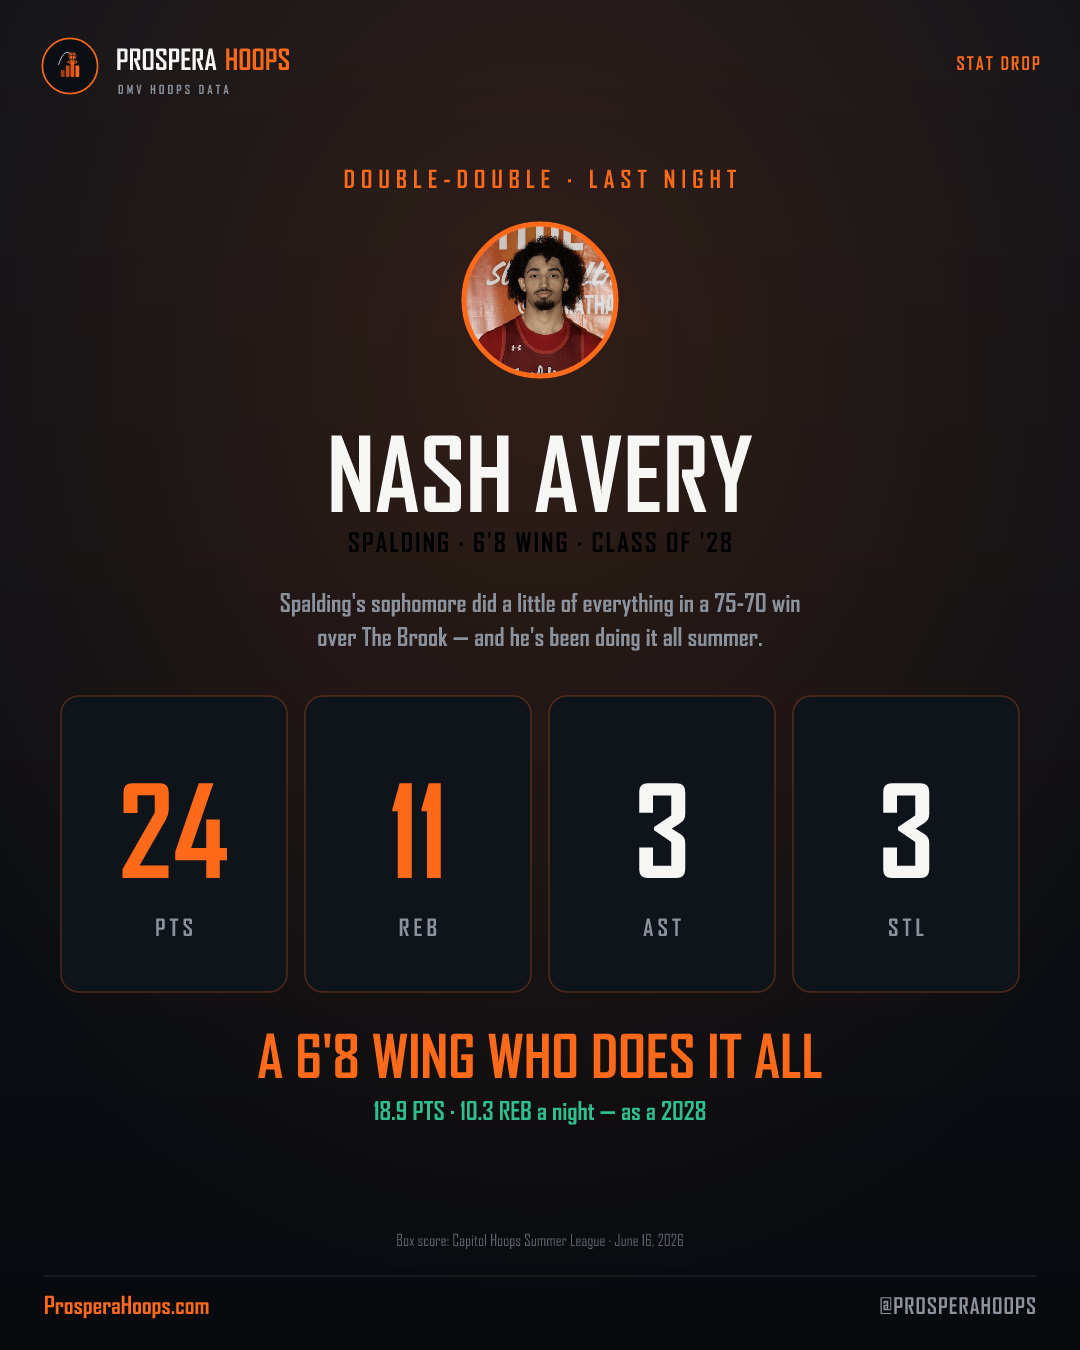
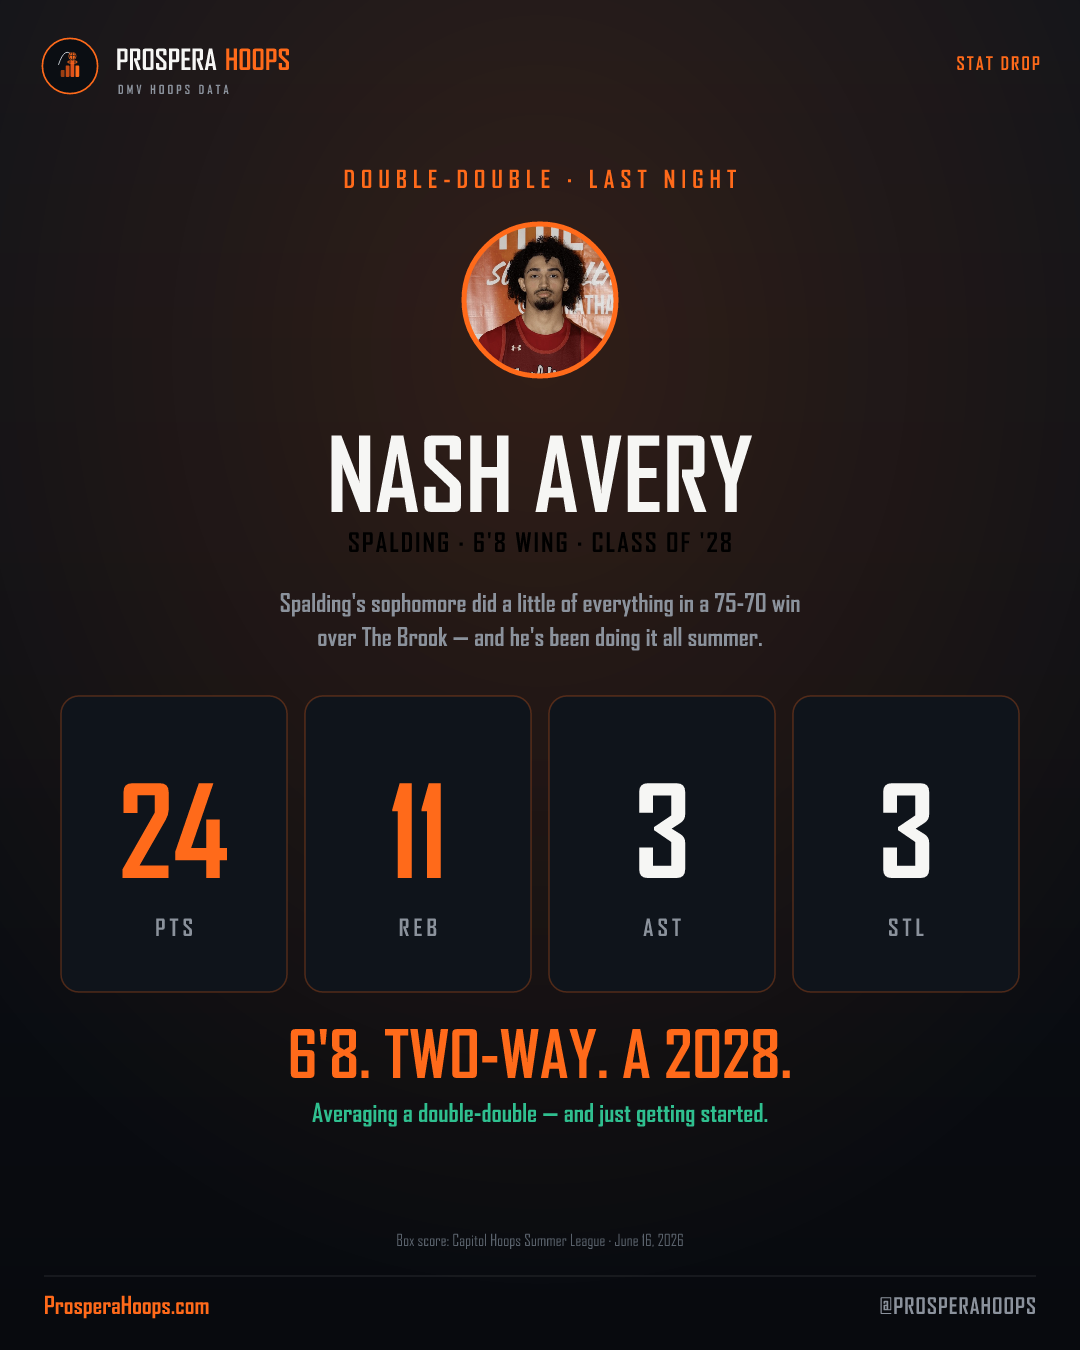
content: Nash tagline '6'8. Two-way. A 2028.' + single shareable caption file (story + carousel + extras)

Changed region(s): [[0.2444, 0.7467, 0.7639, 0.84]]

diff --git a/content/2026-06-17-launch-eve.md b/content/2026-06-17-launch-eve.md
@@ -1,59 +1,87 @@
-# Prospera Hoops — Content for Tue 6/17 (Launch Eve)
+# Prospera Hoops — Launch-Eve Content (Tue 6/17)
 
-**Launch is TOMORROW (6/18).** Today is the final hype day. 4 posts, staggered.
+Campaign: **SEEN · TRACKED · HOME**. Yesterday = the **SEEN.** story. Today = **TRACKED.** + a 3-slide
+showcase. Tomorrow (6/18) = **HOME.** story + launch.
 
-**Credit:** All box scores are from **Capitol Hoops Summer League** — credited on every graphic
-and in the captions. We wrote none of the recaps/box scores; they're theirs.
-
-**Nash Avery's double-double was last night (June 16)** — so it's genuinely fresh. Capitol Hoops posted the box score.
-
-## Graphics (1080×1350, same format/font as yesterday's Hayfield card)
-`docs/social-posts/` — regenerate with `node scripts/gen-launch-eve.mjs`:
-- `post-nash-statline.png` — Nash Avery double-double (last night)
-- `post-major-leap.png` — THE LEAP · Major Jones year-over-year
-- `post-leaders.png` — DMV Summer Scoring Leaders (top 5)
-
-## Posting order & timing
-1. ~11 AM — **Nash Avery · last night's double-double**
-2. ~2 PM — **Major Jones · THE LEAP**
-3. ~5 PM — **DMV Summer Scoring Leaders**
-4. ~8 PM — **Launch countdown** ("Tomorrow")
+All graphics are in `docs/social-posts/` (1080×1350 feed posts, 1080×1920 story).
+Box scores credited to **Capitol Hoops Summer League** on every stat card.
 
 ---
 
-### ① Nash Avery — last night 🌙
-> 🌙 LAST NIGHT — Nash Avery (Spalding, '28) stuffed the sheet in a 75-70 win over The Brook: **24 PTS · 11 REB · 3 AST · 3 STL** on 11-of-20. He's now **averaging a double-double — 18.9 & 10.3 — as a sophomore**. The DMV's been on notice.
->
-> 📲 Full game log + Scout Card on Prospera Hoops — live tomorrow.
-> Box score: Capitol Hoops Summer League.
+## ▶ POST TODAY
 
-`#ProsperaHoops #DMVHoops #Spalding #CapitolHoops #DMVBasketball`
+### 1) Story (post to your IG/X story)
+**File:** `story-tracked-1day.png`
+**Text/caption:**
+> TRACKED. Every game, over time. 👀 1 day out — 6.18.
 
-### ② Major Jones — THE LEAP 📈
-> 📈 THE LEAP — Major Jones (DeMatha) made a real Year-2 jump. PTS 8.4→**11.8** (+3.4) · REB 1.6→**3.0** (+1.4) · AST 1.0→**3.5** (+2.5). The assist jump is the tell — he's running the show now. Development, tracked over time.
+### 2) Feed carousel — 3 slides, in this order
+**Files:** `post-nash-statline.png` → `post-major-leap.png` → `post-showcase-home.png`
+**Caption (one caption for the whole carousel):**
+> This is Prospera Hoops. 🏀
 >
-> 📲 Every player's growth arc on Prospera Hoops — live tomorrow.
+> We SEE every game — Nash Avery (Spalding, '28) went for 24-11-3-3 last night.
+> We TRACK every player's growth — Major Jones' Year-2 leap (8.4→11.8 PPG, assists up 3.5×).
+> And we put the whole DMV in one HOME — 800+ players, every summer + HS team.
+>
+> Real stats. Real development. No fake rankings. You're already on the board — claim your profile free at launch.
+>
+> 📲 prosperahoops.com · LIVE 6.18
+>
 > Box scores: Capitol Hoops Summer League.
+
+`#ProsperaHoops #DMVHoops #DMVBasketball #CapitolHoops #SummerLeague`
+
+---
+
+## ▶ INDIVIDUAL CAPTIONS (if you post the cards separately)
+
+### Nash Avery — `post-nash-statline.png` (SEEN)
+> 🌙 LAST NIGHT — Nash Avery (Spalding, '28) filled the sheet in a 75-70 win over The Brook: **24 PTS · 11 REB · 3 AST · 3 STL** on 11-of-20. A 6'8 two-way wing averaging a double-double (18.9 / 10.3) as a sophomore — and just getting started.
+>
+> 📲 Full game log on Prospera Hoops — live tomorrow. Box score: Capitol Hoops Summer League.
+
+`#ProsperaHoops #DMVHoops #Spalding #CapitolHoops`
+
+### Major Jones — `post-major-leap.png` (TRACKED)
+> 📈 THE LEAP — Major Jones (DeMatha) made a real Year-2 jump: PTS 8.4→**11.8** · REB 1.6→**3.0** · AST 1.0→**3.5**. Scoring up, boards nearly doubled, assists up 3.5×. That's not a hot streak — that's development, tracked over time.
+>
+> 📲 Every player's growth arc on Prospera Hoops — live tomorrow. Box scores: Capitol Hoops Summer League.
 
 `#ProsperaHoops #TheLeap #DMVHoops #DeMatha #PlayerDevelopment`
 
-### ③ DMV Summer Scoring Leaders 🏀
-> 🏀 DMV SUMMER SCORING LEADERS — Drew Hill 28.8 (St. John's) · Will Braun-Duin 28.6 (John Handley) · Jeremiah Williams 28.3 (Walter Johnson) · Gabe Colston 28.0 (JFK) · Jordan Fox 27.9 (DOZA).
+### Home / Showcase — `post-showcase-home.png` (HOME)
+> SEEN. TRACKED. HOME. 🏀 Every DMV hooper, every team, in one place — 800+ players, 61 summer teams, 306 HS teams. Real stats, tracked over time. No fake rankings. Claim your profile free at launch.
 >
-> Real box scores. No fake rankings. No hype. Full board — live tomorrow.
-> Box scores: Capitol Hoops Summer League.
-
-`#ProsperaHoops #DMVHoops #CapitolHoops #SummerLeague`
-*(Min. 5 GP — keeps the board credible.)*
-
-### ④ Launch Countdown ⏳
-> ⏳ TOMORROW. Every DMV hooper. Every team. Real stats, tracked over time. On the board. You're already on it — claim your profile free at launch.
->
-> prosperahoops.com · 6.18
+> prosperahoops.com · LIVE 6.18
 
 `#ProsperaHoops #DMVHoops #DMVBasketball`
 
 ---
+
+## ▶ EXTRAS (use anytime)
+
+### Scoring Leaders — `post-leaders.png`
+> 🏀 DMV SUMMER SCORING LEADERS — Drew Hill 28.8 (St. John's) · Will Braun-Duin 28.6 (John Handley) · Jeremiah Williams 28.3 (Walter Johnson) · Gabe Colston 28.0 (JFK) · Jordan Fox 27.9 (DOZA). Real box scores. No fake rankings. Min. 5 GP. Box scores: Capitol Hoops Summer League.
+
+`#ProsperaHoops #DMVHoops #CapitolHoops`
+
+### Launch Countdown — `post-launch-countdown.png` (save for tomorrow AM)
+> ⏳ TOMORROW. Every DMV hooper. Every team. Real stats, tracked over time. On the board. You're already on it — claim your profile free. prosperahoops.com · 6.18
+
+`#ProsperaHoops #DMVHoops #DMVBasketball`
+
+---
+
+## File list (`docs/social-posts/`)
+| File | Use |
+|------|-----|
+| `story-tracked-1day.png` | Story — today |
+| `post-nash-statline.png` | Carousel slide 1 (SEEN) |
+| `post-major-leap.png` | Carousel slide 2 (TRACKED) |
+| `post-showcase-home.png` | Carousel slide 3 (HOME) |
+| `post-leaders.png` | Extra |
+| `post-launch-countdown.png` | Tomorrow (launch) |
 
 ## Hashtag bank
 `#ProsperaHoops #DMVHoops #DMVBasketball #CapitolHoops #SummerLeague #TheLeap`
